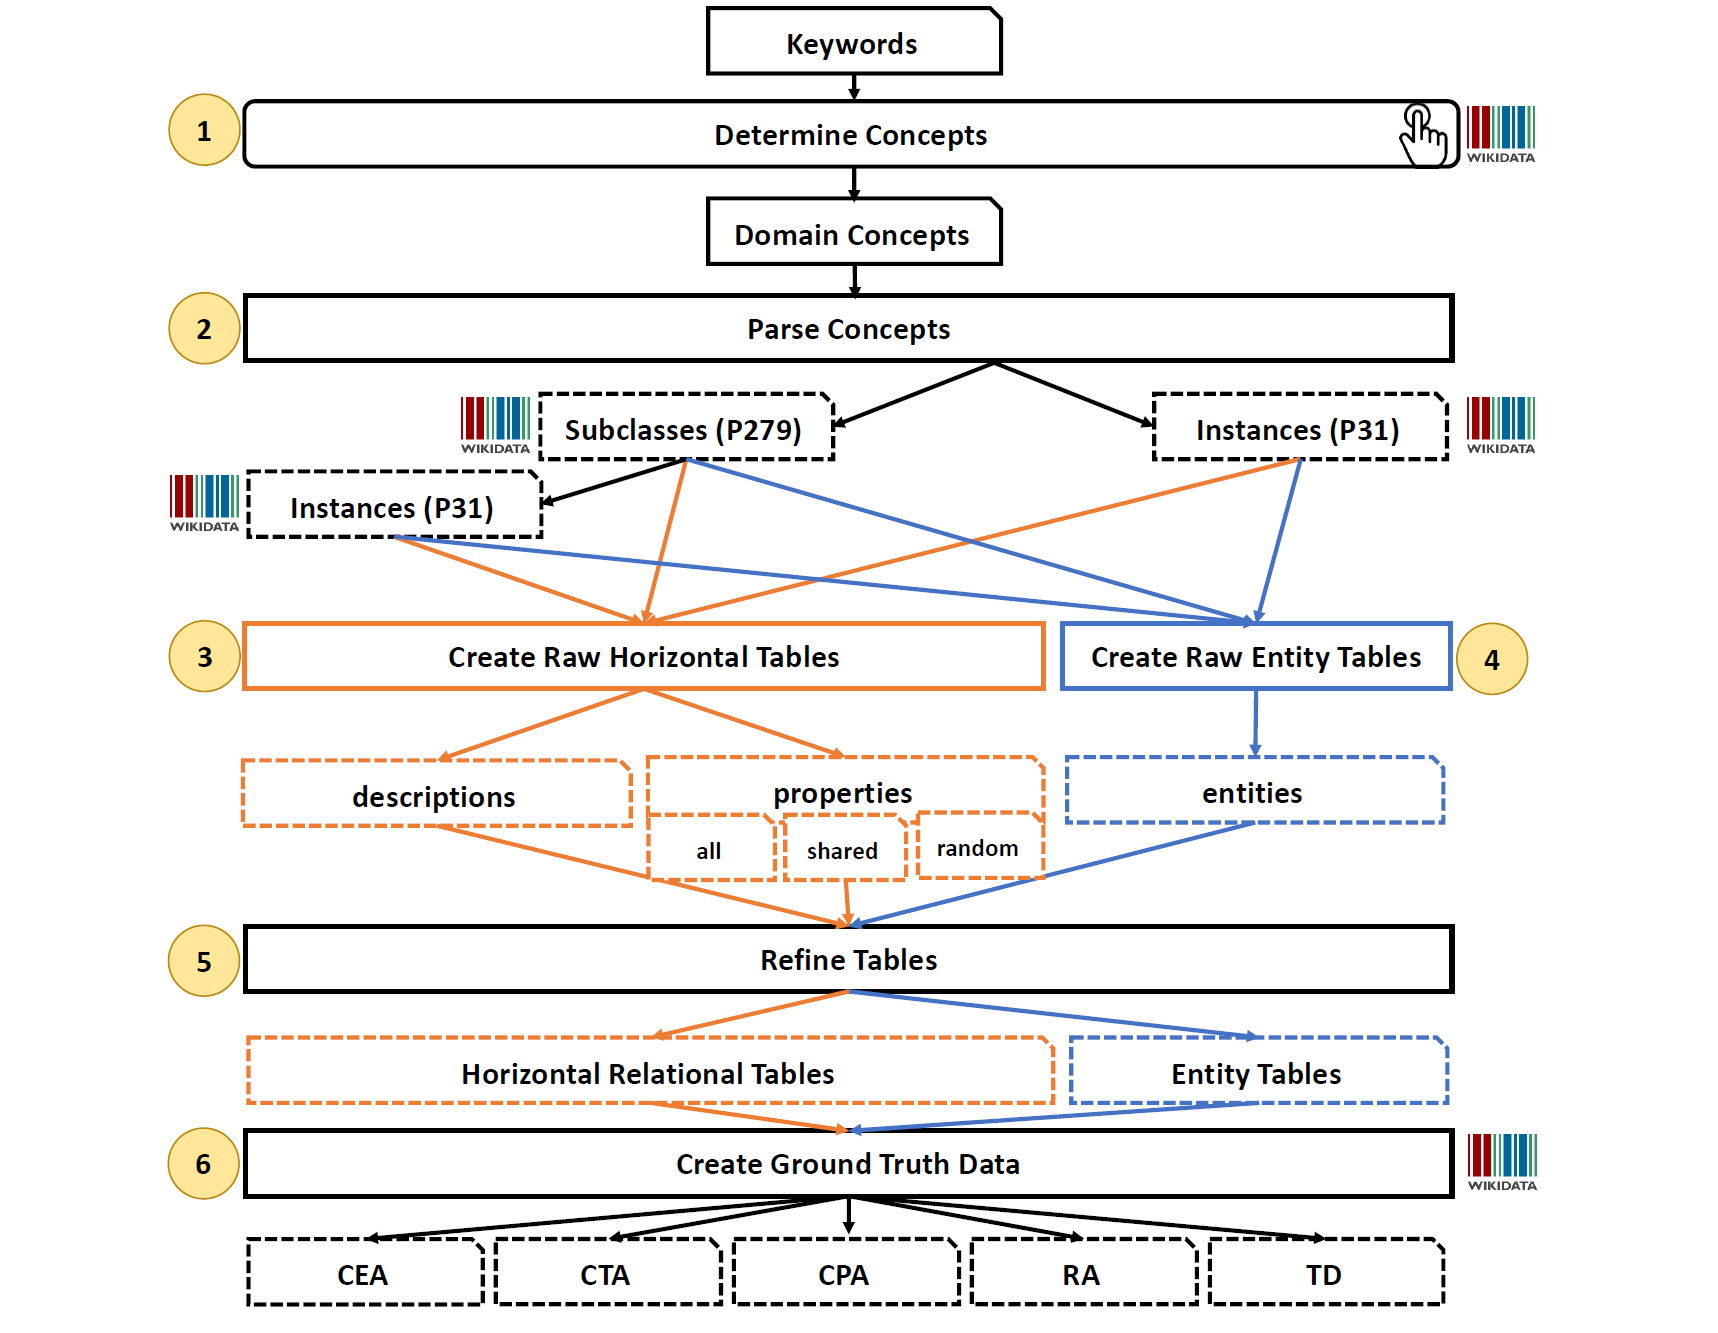
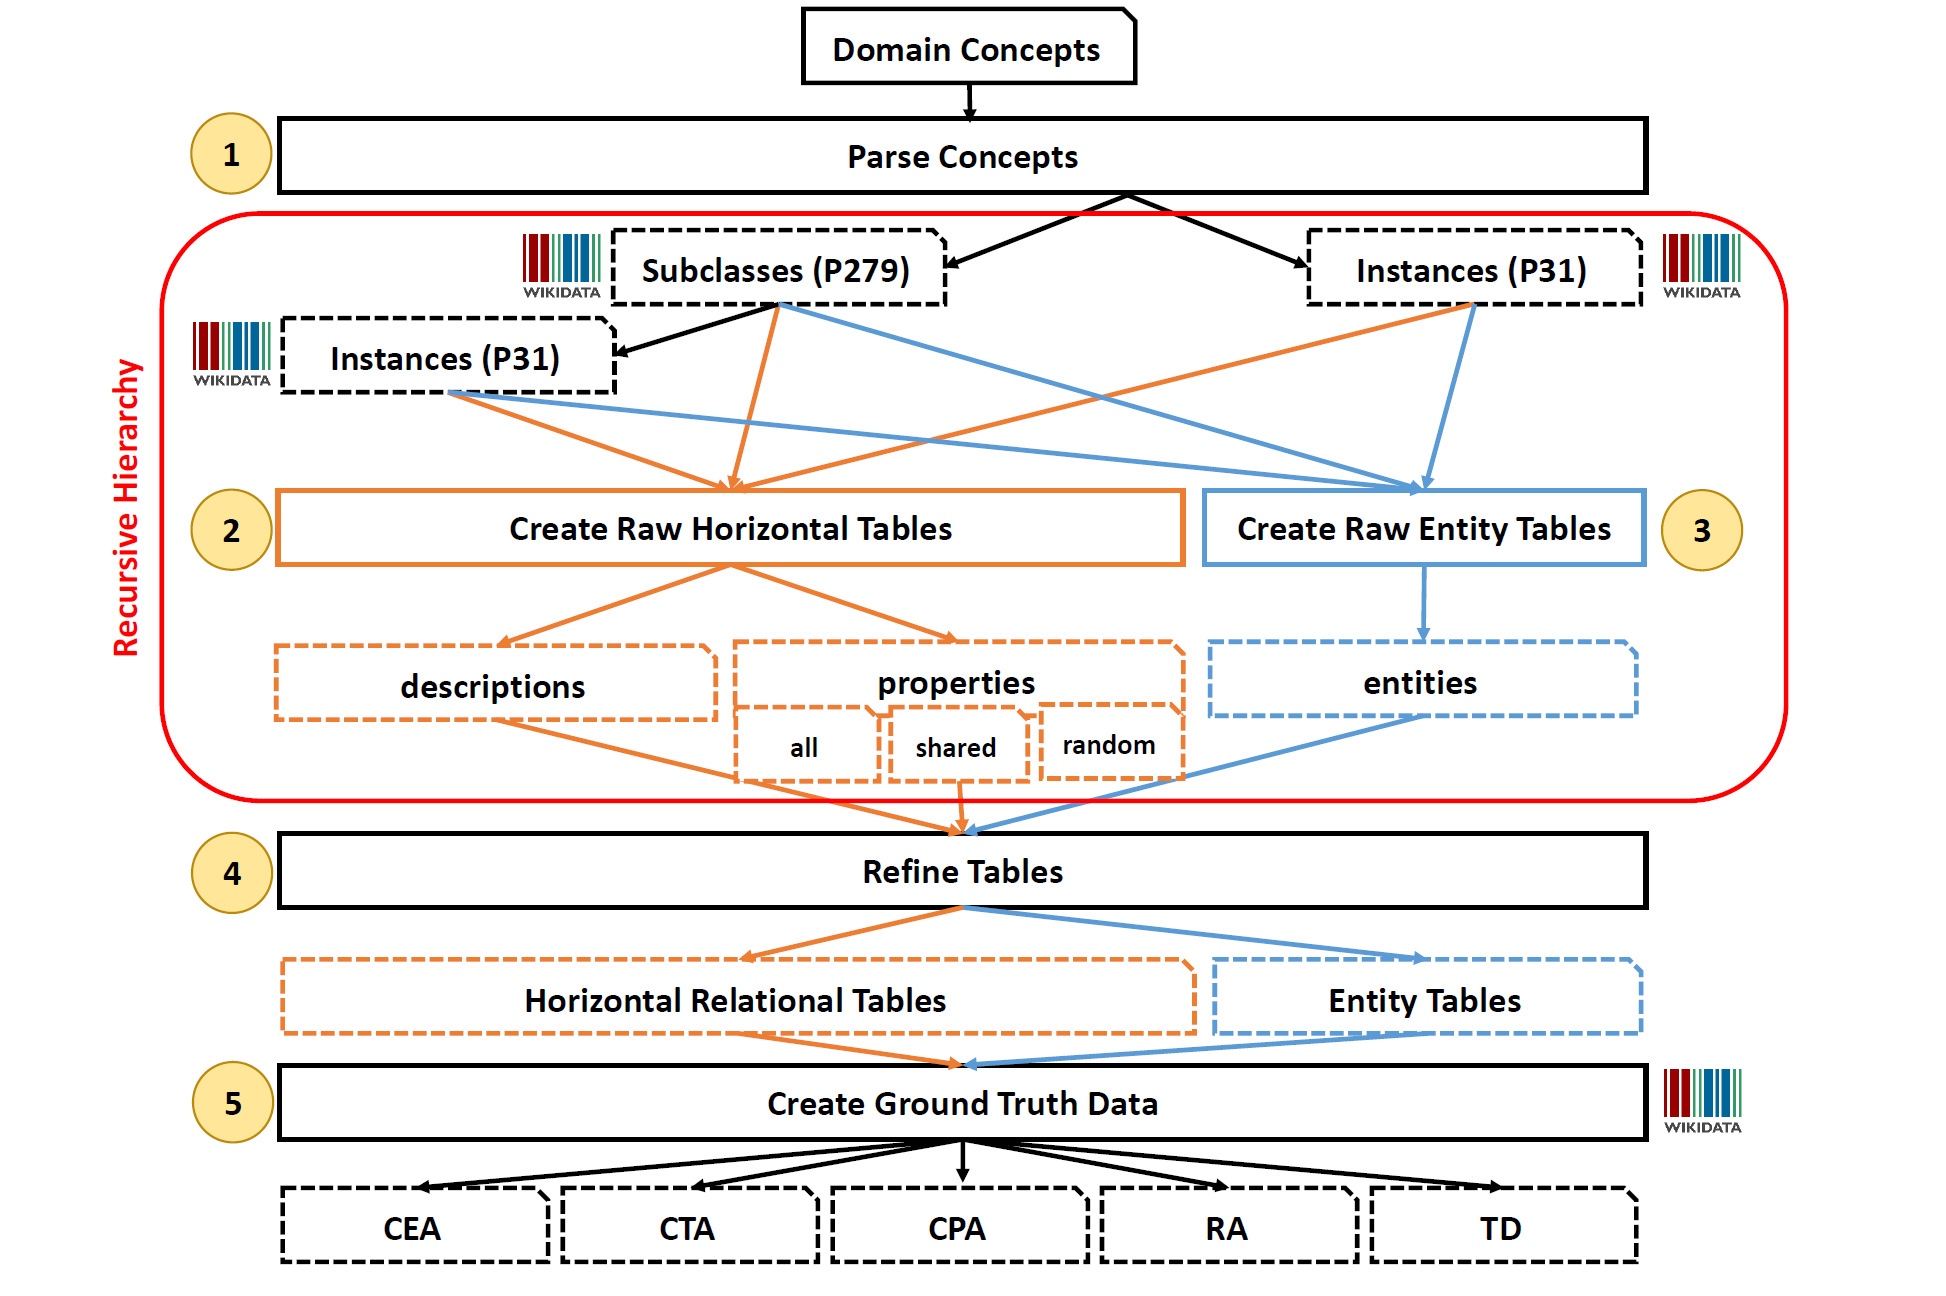
review documantation

Changed region(s): [[0.0617, 0.0, 0.9255, 0.9877]]

diff --git a/README.md b/README.md
@@ -1,13 +1,11 @@
-# Wikidata2Tables Service
+# KG2Tables
 
 This service provides the proxy to Wikidata KG (Lookup API + Sparql Endpoint) to generate a domain-specific Semantic Table Annotation (STA) benchmarks.
 * **tFood** [![DOI](https://zenodo.org/badge/DOI/10.5281/zenodo.10048187.svg)](https://doi.org/10.5281/zenodo.10048187)
   * This dataset has been generated by this generator code
   * tFood is made public for the first time during [SemTab 2023 - Round 1](https://sem-tab-challenge.github.io/2023/)
 
-## Generation Method
-
-### Semantic Table Interpretation/Annotation (STI/STA) 
+## Semantic Table Interpretation/Annotation (STI/STA) 
 * STI or STA is the task of annotating tabular data semantically using Knowledge Graphs (KGs)
 * The following image represent the summary of the 5 state-of-the-art tasks for STI
   * **CEA** - Cell Entity Annotation: Assigns table cells to entities from KGs
@@ -19,7 +17,7 @@ This service provides the proxy to Wikidata KG (Lookup API + Sparql Endpoint) to
 ![STI image!](imgs/STI.png)
 
 
-### tFood Generation Method
+## Methodology
 * The following image represents the generation method adopted in the Generator Code in this repo.
 * To generate a large scale dataset that is derived from the `Food` domain, we followed the next steps:
   * We determined the relevant `Keywords`, e.g., sandwich, meal, breakfast, pizza, ...etc. that are commonly used in normal menus
@@ -46,7 +44,9 @@ This service provides the proxy to Wikidata KG (Lookup API + Sparql Endpoint) to
 | `generate_benchmark_at_once`  | GET  | On hot button for creating a domain-specific benchmark based on the given `input/categories.csv` |
 | `generate_tables`             | GET  | Generates both `Entity` and `Horizontal` tables for the corresponding categories.csv             |
 | `anonymize_tables`            | GET  | Rename tables' names using follow a certain sequence  e.g., Q50 --> UUT10                        |
-| `count`                       | GET  | Provides tables' count for each entity and horizontal tables                                     |
+| `count`                       | GET  | Provides tables' count for each entity and horizontal tables                                     | 
+| `val_test_split`              | GET  | generates val and test folds of the current benchmarks for evaluating and testing STI systems    | 
+
 
 
 ### `generate_benchmark_at_once` Output format
@@ -91,16 +91,28 @@ This service provides the proxy to Wikidata KG (Lookup API + Sparql Endpoint) to
 }
 ```
 
+### `val_test_split` Output format
+
+```json
+{
+  "message": "success, validation and test splits are created."   
+}
+```
+
 ## Configuration
 
 Environment variables for configuration (can also be set via docker-compose.yml):
 
-| Name                           | Default                              | Description                                                                           |
-|--------------------------------|--------------------------------------|---------------------------------------------------------------------------------------|
-| MAX_PARALLEL_REQUESTS          | 5                                    | maximum number of parallel requests. Used to prevent IP-bans from Wikidata            |
-| DEFAULT_DELAY                  | 10                                   | default delay upon HTTP error (429, 500, ...); in seconds                             |
-| MAX_RETRIES                    | 5                                    | maximum number of retries upon HTTP errors                                            |
-| wikidata_SPARQL_ENDPOINT       | 'https://query.wikidata.org/sparql'  | Wikidata endpoint that hits to construct the benchmark                                |
+| Name                     | Default                             | Description                                                                                                   |
+|--------------------------|-------------------------------------|---------------------------------------------------------------------------------------------------------------|
+| BENCHMARK_NAME           | None                                | Name of the benchmark we would like to create.                                                                |
+| CATEGORIES_FILE_NAME     | None                                | Input domain related concepts from the target KG.                                                             |
+| MAX_DEPTH                | 10                                  | Maximum level of recursive function to build the hierarchy of the domain concepts.                            |
+| MAX_NO_INSTANCES         | 100                                 | Tree pruning threshold that set the maximum number of instances/subclasses to be retrieve per domain concept. |
+| MAX_PARALLEL_REQUESTS    | 5                                   | maximum number of parallel requests. Used to prevent IP-bans from Wikidata.                                   |
+| DEFAULT_DELAY            | 10                                  | default delay upon HTTP error (429, 500, ...); in seconds.                                                    |
+| MAX_RETRIES              | 5                                   | maximum number of retries upon HTTP errors.                                                                   |
+| wikidata_SPARQL_ENDPOINT | 'https://query.wikidata.org/sparql' | Wikidata endpoint that hits to construct the benchmark.                                                       |
 
 ## Citation
 ```commandline
